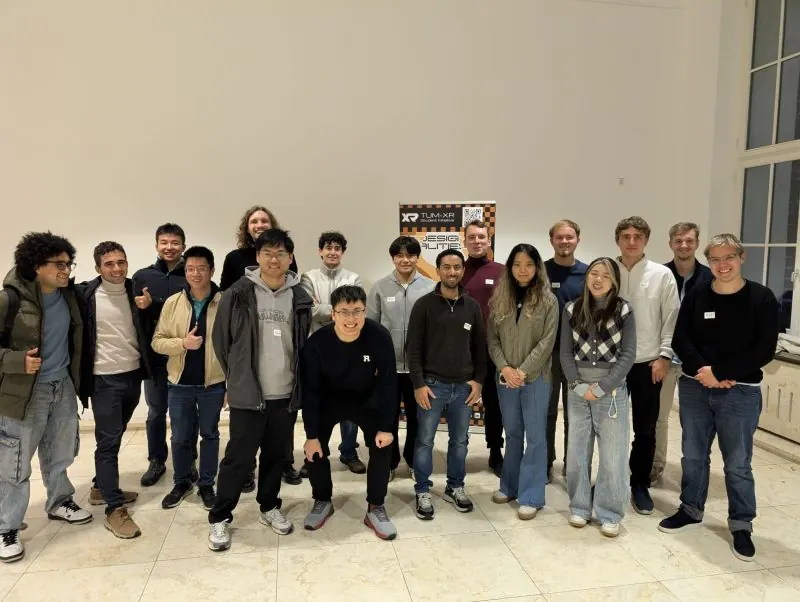
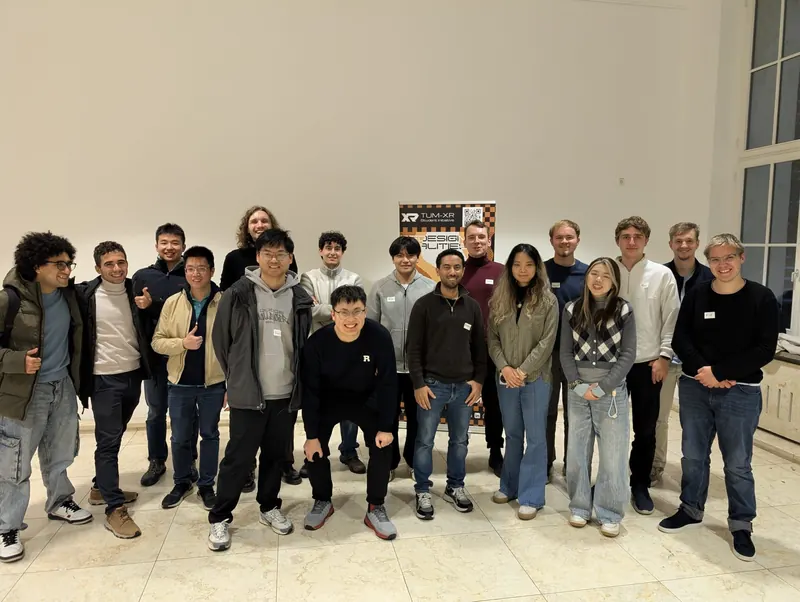
Media room: add LinkedIn photos and the ARD Brisant report, fix the header
New photo blocks for funding and programmes and for the US exchange, the
TUM-XR photo in higher resolution, and ARD Brisant in the coverage list.
The header and its menus now use the page's navy instead of the light
glass, on which the light text was unreadable.

Changed region(s): [[0.5312, 0.3887, 0.5625, 0.4186]]

diff --git a/presse.html b/presse.html
@@ -1901,6 +1901,10 @@ ul, ol { list-style: none; padding: 0; }
    Consumes css/tokens.css and css/site.css. Every class is prefixed .press-,
    and every value comes from a token.
    ========================================================================== */
+/* The header, language menu and phone menu take their ground from this token.
+   The default is the paper glass, on which this page's light text vanishes. */
+.page--dark { --surface-glass-strong: rgba(25, 24, 59, 0.985); }
+
 .press-hero {
   position: relative;
   padding-block: calc(var(--nav-h) + var(--sp-9)) var(--sp-8);
@@ -2029,6 +2033,7 @@ ul, ol { list-style: none; padding: 0; }
 .press-shot figcaption { font-size: var(--t-small); line-height: 1.45; }
 .press-shot__cap { display: block; color: var(--ink-soft); }
 .press-shot__credit { display: block; margin-top: var(--sp-1); font-size: var(--t-micro); color: var(--ink-faint); }
+.press-shot--top .press-shot__link img { object-position: top; }
 .press-shot--wide { grid-column: 1 / -1; flex-direction: row; align-items: center; gap: var(--sp-6); }
 .press-shot--wide .press-shot__link { flex: 0 0 calc((100% - var(--sp-5)) / 2); }
 .press-shot--wide .press-shot__link img { aspect-ratio: 4 / 3; }
@@ -2243,7 +2248,7 @@ ul, ol { list-style: none; padding: 0; }
     <div class="wrap">
       <header class="press-head reveal">
         <h2 id="pressPhotos" data-i18n="press_ph_h">Fotos</h2>
-        <p data-i18n="press_ph_p">Von den bisherigen Veranstaltungen. Ein Klick vergrößert das Foto. Pressebilder vom Finale in voller Auflösung stellt der BWKI bereit.</p>
+        <p data-i18n="press_ph_p">Von Veranstaltungen, Übungen und Meilensteinen. Ein Klick vergrößert das Foto. Pressebilder vom Finale in voller Auflösung stellt der BWKI bereit.</p>
         <a class="press-head__link" href="https://www.bw-ki.de/pressebilder" target="_blank" rel="noopener" data-i18n="press_ph_hires">BWKI-Pressebilder in voller Auflösung ↗</a>
       </header>
       <div class="press-event">
@@ -2280,6 +2285,22 @@ ul, ol { list-style: none; padding: 0; }
       </div>
       <div class="press-event">
         <header class="press-event__head reveal">
+          <h3 data-i18n="press_ph_fund">Förderung und Programme</h3>
+          <time datetime="2026-11" data-i18n="press_ph_fund_d">Oktober und November 2026</time>
+        </header>
+        <div class="press-grid">
+          <figure class="press-shot reveal press-shot--top">
+            <a class="press-shot__link" href="assets/press/sponsorpool-2026.webp" data-lightbox aria-labelledby="ph-fund-1"><img src="assets/press/sponsorpool-2026-s.webp" width="800" height="714" alt="Der Sponsorpool Bayern fördert J.A.R. Im Bild: unser Prototyp mit AR-Brille im Test." loading="lazy" decoding="async"></a>
+            <figcaption><span class="press-shot__cap" id="ph-fund-1" data-i18n="press_ph_fund_1">Der Sponsorpool Bayern fördert J.A.R. Im Bild: unser Prototyp mit AR-Brille im Test.</span> <span class="press-shot__credit" data-i18n="press_cr_jar">Bild: bereitgestellt von J.A.R. Medical</span></figcaption>
+          </figure>
+          <figure class="press-shot reveal">
+            <a class="press-shot__link" href="assets/press/nvidia-inception-2026.webp" data-lightbox aria-labelledby="ph-fund-2"><img src="assets/press/nvidia-inception-2026-s.webp" width="800" height="548" alt="J.A.R. Medical ist Mitglied im Programm NVIDIA Inception." loading="lazy" decoding="async"></a>
+            <figcaption><span class="press-shot__cap" id="ph-fund-2" data-i18n="press_ph_fund_2">J.A.R. Medical ist Mitglied im Programm NVIDIA Inception.</span> <span class="press-shot__credit" data-i18n="press_cr_nvidia">Grafik: NVIDIA</span></figcaption>
+          </figure>
+        </div>
+      </div>
+      <div class="press-event">
+        <header class="press-event__head reveal">
           <h3 data-i18n="press_ph_xr">J.A.R. bei TUM-XR</h3>
           <time datetime="2026-10" data-i18n="press_ph_xr_d">Oktober 2026</time>
         </header>
@@ -2287,6 +2308,22 @@ ul, ol { list-style: none; padding: 0; }
           <figure class="press-shot reveal press-shot--wide">
             <a class="press-shot__link" href="assets/press/tum-xr-2026.webp" data-lightbox aria-labelledby="ph-xr-1"><img src="assets/press/tum-xr-2026-s.webp" width="800" height="602" alt="Gruppenfoto mit TUM-XR. Im Wintersemester arbeiten Alexander Kluge und Johannes Nirschl im Spatial-Intelligence-Team mit." loading="lazy" decoding="async"></a>
             <figcaption><span class="press-shot__cap" id="ph-xr-1" data-i18n="press_ph_xr_1">Gruppenfoto mit TUM-XR. Im Wintersemester arbeiten Alexander Kluge und Johannes Nirschl im Spatial-Intelligence-Team mit.</span> <span class="press-shot__credit" data-i18n="press_cr_jar">Bild: bereitgestellt von J.A.R. Medical</span></figcaption>
+          </figure>
+        </div>
+      </div>
+      <div class="press-event">
+        <header class="press-event__head reveal">
+          <h3 data-i18n="press_ph_usa">Austausch in den USA</h3>
+          <time datetime="2026">2026</time>
+        </header>
+        <div class="press-grid">
+          <figure class="press-shot reveal">
+            <a class="press-shot__link" href="assets/press/usa-2026-assemblyai.webp" data-lightbox aria-labelledby="ph-usa-1"><img src="assets/press/usa-2026-assemblyai-s.webp" width="800" height="600" alt="Austausch mit AssemblyAI über die nächste Generation von Sprachmodellen." loading="lazy" decoding="async"></a>
+            <figcaption><span class="press-shot__cap" id="ph-usa-1" data-i18n="press_ph_usa_1">Austausch mit AssemblyAI über die nächste Generation von Sprachmodellen.</span> <span class="press-shot__credit" data-i18n="press_cr_jar">Bild: bereitgestellt von J.A.R. Medical</span></figcaption>
+          </figure>
+          <figure class="press-shot reveal">
+            <a class="press-shot__link" href="assets/press/usa-2026-princeton.webp" data-lightbox aria-labelledby="ph-usa-2"><img src="assets/press/usa-2026-princeton-s.webp" width="800" height="600" alt="Auf dem Campus der Princeton University." loading="lazy" decoding="async"></a>
+            <figcaption><span class="press-shot__cap" id="ph-usa-2" data-i18n="press_ph_usa_2">Auf dem Campus der Princeton University.</span> <span class="press-shot__credit" data-i18n="press_cr_jar">Bild: bereitgestellt von J.A.R. Medical</span></figcaption>
           </figure>
         </div>
       </div>
@@ -2302,6 +2339,16 @@ ul, ol { list-style: none; padding: 0; }
           Überschriften stehen in der Sprache, in der sie erschienen sind.</p>
       </header>
       <ol class="press-list">
+        <li class="press-item reveal">
+          <p class="press-item__meta">
+            <span class="press-item__outlet">ARD Brisant</span>
+            <span class="press-item__kind" data-i18n="press_a7_kind">TV-Beitrag</span>
+            <time datetime="2026-11-22">22.11.2026</time>
+          </p>
+          <h3 class="press-item__title" lang="de"><a href="https://www.ardmediathek.de/video/brisant/brisant-vom-22-november/mdr/Y3JpZDovL21kci5kZS9iZWl0cmFnL2Ntcy8wYTU5ZDg3Yy1mOWI1LTRkZWMtOWQ1MS0yOTNiODY1ZWFlY2I" target="_blank" rel="noopener">Brisant vom 22. November</a></h3>
+          <p class="press-item__p" data-i18n="press_a7_p">Nach dem BWKI-Hauptpreis hat ein Team von ARD Brisant J.A.R. begleitet. Der Beitrag lief im Ersten und ist bis 29.11.2026 in der ARD Mediathek abrufbar.</p>
+          <span class="press-item__cta" aria-hidden="true" data-i18n="press_watch">Beitrag ansehen ↗</span>
+        </li>
         <li class="press-item reveal">
           <p class="press-item__meta">
             <span class="press-item__outlet">insideBW</span>
@@ -2874,7 +2921,7 @@ window.JAR_I18N = {
     press_fact_field_v: '10 finalist teams from 8 German states',
     press_fact_team_k: 'Team',
     press_ph_h: 'Photos',
-    press_ph_p: 'From the events so far. Click a photo to enlarge it. The BWKI provides press images of the final in full resolution.',
+    press_ph_p: 'From events, exercises and milestones. Click a photo to enlarge it. The BWKI provides press images of the final in full resolution.',
     press_ph_hires: 'BWKI press images in full resolution ↗',
     press_ph_bwki: 'BWKI final in Tübingen',
     press_ph_bwki_1: 'J.A.R. at the award ceremony (from left): Jonas Kaindl, Johannes Nirschl and Alexander Kluge.',
@@ -2888,6 +2935,14 @@ window.JAR_I18N = {
     press_cr_bwki: 'Photo: Ale Zea / BWKI',
     press_cr_drone: 'Drone image: J.A.R. Medical',
     press_cr_jar: 'Image: provided by J.A.R. Medical',
+    press_ph_fund: 'Funding and programmes',
+    press_ph_fund_d: 'October and November 2026',
+    press_ph_fund_1: 'Sponsorpool Bayern funds J.A.R. Pictured: our prototype with AR glasses being tested.',
+    press_ph_fund_2: 'J.A.R. Medical is a member of the NVIDIA Inception programme.',
+    press_ph_usa: 'Exchange in the US',
+    press_ph_usa_1: 'Exchange with AssemblyAI on the next generation of voice models.',
+    press_ph_usa_2: 'On the Princeton University campus.',
+    press_cr_nvidia: 'Graphic: NVIDIA',
     press_lb_close: 'Close',
     press_lb_prev: 'Previous photo',
     press_lb_next: 'Next photo',
@@ -2905,6 +2960,9 @@ window.JAR_I18N = {
     press_a5_p: 'Before the final: the Süddeutsche Zeitung introduces the three students and their AI for a better overview in large-scale emergencies.',
     press_a6_kind: 'In English',
     press_a6_p: 'The Tübingen AI Center’s English-language report on the final, with the photo of the winning J.A.R. team.',
+    press_a7_kind: 'TV report',
+    press_a7_p: 'After the BWKI main prize, a team from ARD Brisant accompanied J.A.R. The report aired on Das Erste and is available in the ARD Mediathek until 29 November 2026 (in German).',
+    press_watch: 'Watch report ↗',
     press_kit_h: 'For editors',
     press_kit_p: 'Logos, photos and a direct line to the team. Please credit photos as stated by their source.',
     press_logo_h: 'Logos',
